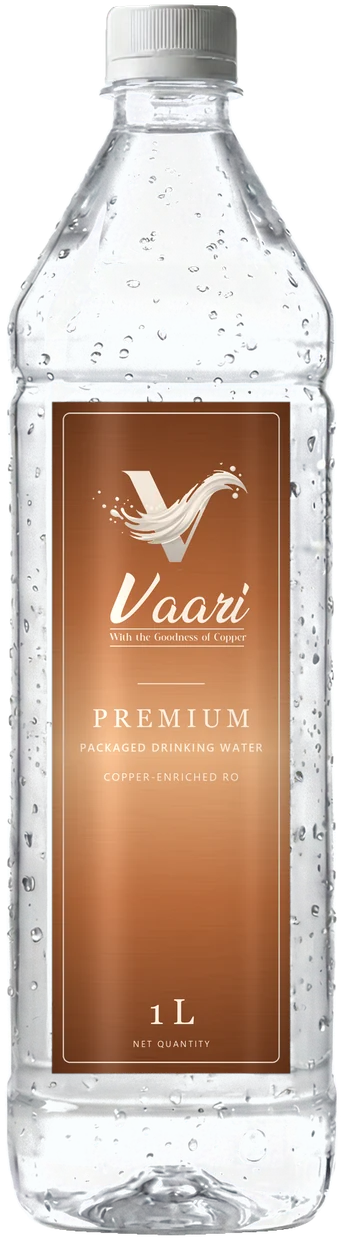
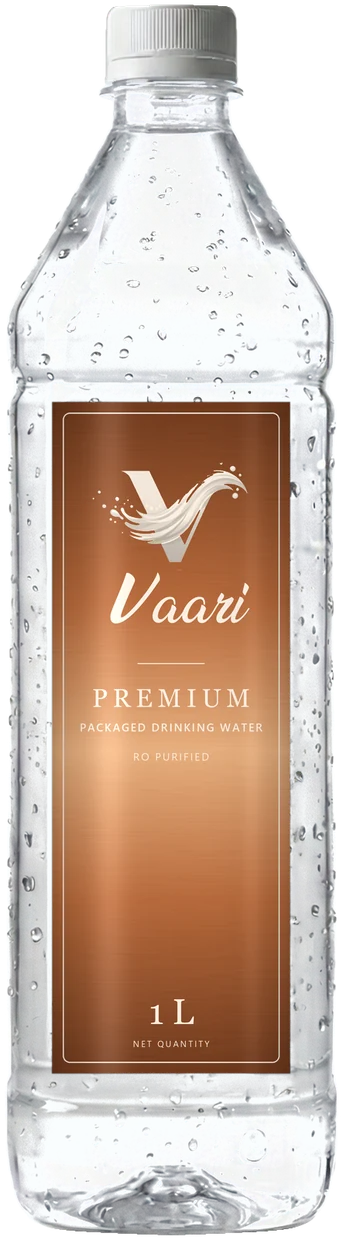
Remove copper enrichment claims and update service area
- Replace copper wording across the site with RO purified messaging
- Remove the copper enrichment step and related health claims
- Regenerate bottle labels and use a logo without the copper tagline
- Update service area to Haryana
- Stop requesting the 20L photo before it exists

Changed region(s): [[0.2332, 0.4903, 0.758, 0.6435]]

diff --git a/components/hero-section.tsx b/components/hero-section.tsx
@@ -193,7 +193,7 @@ export function HeroSection() {
               transition={{ duration: 0.9, delay: INTRO_DELAY + 0.55 }}
               className="text-[15px] leading-relaxed text-white/80"
             >
-              Experience the purity of copper-based RO purified water. Every drop is a commitment to
+              Experience the purity of RO purified water. Every drop is a commitment to
               your health.
             </motion.p>
           </motion.div>
@@ -237,17 +237,17 @@ export function HeroSection() {
             style={{ opacity: callouts, x: calloutShift }}
             className="absolute right-[7vw] top-[50vh] z-10 hidden max-w-[24vw] text-right lg:block"
           >
-            <p className="font-display text-4xl font-light italic text-copper-light xl:text-5xl">Copper Enriched</p>
+            <p className="font-display text-4xl font-light italic text-copper-light xl:text-5xl">FSSAI Certified</p>
             <div className="my-4 ml-auto h-px w-[85%] bg-gradient-to-l from-copper-light/80 to-transparent" />
             <p className="text-[15px] leading-relaxed text-white/75">
-              With the goodness of copper, for water that does more than quench your thirst.
+              Compliant with food safety and quality standards, so you can trust every bottle.
             </p>
           </motion.div>
           <motion.p
             style={{ opacity: callouts }}
             className="absolute inset-x-6 top-[11vh] z-10 text-center font-display text-2xl font-light italic text-white lg:hidden"
           >
-            RO purified. <span className="text-copper-light">Copper enriched.</span>
+            RO purified. <span className="text-copper-light">FSSAI certified.</span>
           </motion.p>
         </div>
       </section>
@@ -258,7 +258,7 @@ export function HeroSection() {
         <div className="mx-auto grid max-w-7xl gap-12 px-5 py-20 sm:px-8 lg:min-h-screen lg:grid-cols-2 lg:items-center lg:py-28">
           <div>
             <Reveal>
-              <p className="eyebrow mb-6 text-copper-dark">With the goodness of copper</p>
+              <p className="eyebrow mb-6 text-copper-dark">Pure. Safe. Refreshing.</p>
             </Reveal>
             <RiseText
               text="Water you can trust, in every single drop."
@@ -266,14 +266,14 @@ export function HeroSection() {
             />
             <Reveal delay={0.15}>
               <p className="mt-7 max-w-lg text-lg leading-relaxed text-ink/70">
-                Our water is sourced from a state-of-the-art Copper-Based RO Purifier, combining
-                advanced Reverse Osmosis filtration technology with the natural benefits of copper.
+                Our water is purified with a state-of-the-art RO system, using
+                advanced Reverse Osmosis filtration technology for crystal-clear, safe drinking water.
               </p>
             </Reveal>
 
             <img
               src="/bottles/vaari-premium-1l.webp"
-              alt="VAARI Premium Crystal 1 litre bottle with a copper label"
+              alt="VAARI Premium Crystal 1 litre bottle"
               loading="lazy"
               className="mx-auto mt-10 h-[56vh] w-auto drop-shadow-[0_26px_26px_rgba(7,38,58,0.25)] lg:hidden"
             />

diff --git a/components/process-section.tsx b/components/process-section.tsx
@@ -10,16 +10,12 @@ const STEPS = [
     text: 'Crystal-clear water free from contaminants, impurities, and harmful substances through our multi-stage RO process.',
   },
   {
-    title: 'Copper Enrichment',
-    text: "Water enriched with copper's natural health-boosting properties, including antimicrobial benefits and improved immunity.",
-  },
-  {
     title: 'Quality Certified',
     text: 'Certified by the Food Safety and Standards Authority of India (FSSAI), ensuring compliance with the highest food safety and quality standards.',
   },
   {
     title: 'Sealed & Delivered',
-    text: 'Bottled in eco-friendly packaging and delivered across Delhi NCR on daily and weekly schedules.',
+    text: 'Bottled in eco-friendly packaging and delivered across Haryana on daily and weekly schedules.',
   },
 ];
 
@@ -34,7 +30,7 @@ export function ProcessSection() {
   });
 
   return (
-    <section ref={ref} className="relative h-[320vh] bg-ink text-white">
+    <section ref={ref} className="relative h-[260vh] bg-ink text-white">
       <div className="noise screen-h sticky top-0 overflow-hidden">
         <div className="mx-auto grid h-full max-w-7xl grid-cols-[92px_1fr] items-center pt-14 gap-6 px-5 sm:grid-cols-[180px_1fr] sm:gap-12 sm:px-8 lg:grid-cols-[300px_1fr] lg:gap-24">
           {/* A glass column that fills as the reader scrolls. */}
@@ -45,17 +41,12 @@ export function ProcessSection() {
               </svg>
             </motion.div>
             <div className="absolute inset-y-6 left-[18%] w-2 rounded-full bg-white/30 blur-[2px]" />
-            <motion.div
-              animate={{ opacity: active >= 1 ? 1 : 0, scale: active >= 1 ? 1 : 0.6 }}
-              transition={{ duration: 0.6 }}
-              className="absolute left-1/2 top-1/2 h-1/3 w-1/2 -translate-x-1/2 -translate-y-1/2 rounded-full bg-copper-light/40 blur-2xl"
-            />
           </div>
 
           <div>
             <p className="eyebrow mb-4 text-aqua">Our Water Source</p>
             <RiseText
-              text="Copper-Based RO Purification"
+              text="Advanced RO Purification"
               className="mb-8 max-w-2xl text-3xl font-light leading-[1.08] sm:text-5xl lg:mb-12 lg:text-6xl"
             />
             <ol className="space-y-1">

diff --git a/components/products-section.tsx b/components/products-section.tsx
@@ -2,7 +2,7 @@
 
 import { AnimatePresence, motion, useMotionValueEvent, useScroll } from 'framer-motion';
 import { ArrowRight, Award, Droplets, ShieldCheck, Sparkles } from 'lucide-react';
-import { useEffect, useRef, useState } from 'react';
+import { useRef, useState } from 'react';
 import { scrollToTarget, RiseText } from '@/components/site/motion';
 import { PRODUCTS, TWENTY_LITRE_IMAGE, type Product } from '@/lib/site-data';
 
@@ -10,7 +10,7 @@ const EASE = [0.22, 1, 0.36, 1] as const;
 
 const QUALITIES = [
   { icon: ShieldCheck, label: 'RO Purified' },
-  { icon: Award, label: 'Copper Enriched' },
+  { icon: Award, label: 'FSSAI Certified' },
   { icon: Droplets, label: '100% Pure' },
 ];
 
@@ -45,7 +45,7 @@ function TwentyLitreIllustration() {
       ))}
       <path d="M58 130 C46 170 46 440 58 510" fill="none" stroke="#fff" strokeOpacity="0.55" strokeWidth="9" strokeLinecap="round" />
       <rect x="50" y="218" width="200" height="214" rx="6" fill="#fff" />
-      <image href="/logo_vaari.png" x="88" y="230" width="124" height="146" />
+      <image href="/brand/vaari-logo-stacked.webp" x="88" y="236" width="124" height="130" />
       <text x="150" y="412" textAnchor="middle" fontFamily="Georgia, serif" fontSize="28" fill="#0a3350">
         20 L
       </text>
@@ -54,18 +54,9 @@ function TwentyLitreIllustration() {
 }
 
 function BottleImage({ product }: { product: Product }) {
-  const isTwenty = product.image === TWENTY_LITRE_IMAGE;
-  const [hasPhoto, setHasPhoto] = useState(false);
-
-  // Checked after mount so a missing photo falls back to the illustration without a broken image.
-  useEffect(() => {
-    if (!isTwenty) return;
-    const probe = new window.Image();
-    probe.onload = () => setHasPhoto(true);
-    probe.src = TWENTY_LITRE_IMAGE;
-  }, [isTwenty]);
-
-  if (isTwenty && !hasPhoto) return <TwentyLitreIllustration />;
+  if (product.image === TWENTY_LITRE_IMAGE && process.env.NEXT_PUBLIC_HAS_20L_PHOTO !== 'true') {
+    return <TwentyLitreIllustration />;
+  }
   return <img src={product.image} alt={`VAARI ${product.name}`} loading="lazy" className="h-full w-auto" />;
 }
 

diff --git a/components/delivery-section.tsx b/components/delivery-section.tsx
@@ -7,7 +7,7 @@ import { Reveal, RiseText, WaveEdge } from '@/components/site/motion';
 import { CITIES, CONTACT } from '@/lib/site-data';
 
 const FACTS = [
-  { icon: MapPin, title: 'Service Area', lead: 'Delhi NCR', text: 'Including Delhi, Noida, Gurgaon, Ghaziabad, and Faridabad' },
+  { icon: MapPin, title: 'Service Area', lead: 'Haryana', text: 'Including  Faridabad, Gurgaon, Hodal and Palwal' },
   { icon: Clock, title: 'Working Hours', lead: CONTACT.hours, text: 'Monday to Saturday. Sunday by appointment only' },
   { icon: Truck, title: 'Delivery Schedule', lead: 'Daily & Weekly', text: 'Within 48hrs delivery available for bulk orders' },
 ];
@@ -51,7 +51,7 @@ export function DeliverySection() {
           <p className="eyebrow mb-6 text-aqua">Distribution & Delivery</p>
         </Reveal>
         <RiseText
-          text="Fast, reliable delivery across Delhi NCR."
+          text="Fast, reliable delivery across Haryana."
           className="max-w-4xl text-4xl font-light leading-[1.05] sm:text-6xl"
         />
 

diff --git a/components/footer.tsx b/components/footer.tsx
@@ -28,7 +28,7 @@ export function Footer() {
           <div>
             <img src="/brand/vaari-logo-light.webp" alt="VAARI" loading="lazy" className="h-14 w-auto" />
             <p className="mt-5 max-w-xs text-sm leading-relaxed text-white/65">
-              Pure, safe, and refreshing drinking water delivered with excellence across Delhi NCR.
+              Pure, safe, and refreshing drinking water delivered with excellence across Haryana.
             </p>
             <div className="mt-6 flex gap-2">
               {SOCIAL.map((social) => (
@@ -68,7 +68,7 @@ export function Footer() {
             </li>
             <li className="flex gap-3">
               <MapPin className="mt-0.5 h-4 w-4 shrink-0 text-aqua" />
-              <span className="text-white/65">Delhi NCR, India</span>
+              <span className="text-white/65">Haryana, India</span>
             </li>
           </FooterColumn>
 

diff --git a/app/layout.tsx b/app/layout.tsx
@@ -1,3 +1,4 @@
+// @ts-expect-error Next.js resolves global CSS imports during bundling.
 import './globals.css';
 import type { Metadata } from 'next';
 import { Fraunces, Manrope } from 'next/font/google';
@@ -13,7 +14,7 @@ const display = Fraunces({
 
 export const metadata: Metadata = {
   title: 'VAARI - Premium Bottled Water | Stay Pure. Stay Hydrated.',
-  description: 'VAARI by SATPREM SOLUTIONS delivers pure, copper-enriched RO water across Delhi NCR. FSSAI certified, eco-friendly packaging, and white-label solutions for businesses.',
+  description: 'VAARI by SATPREM SOLUTIONS delivers pure, RO purified water across Haryana. FSSAI certified, eco-friendly packaging, and white-label solutions for businesses.',
 };
 
 export default function RootLayout({

diff --git a/components/white-label-section.tsx b/components/white-label-section.tsx
@@ -11,7 +11,7 @@ const STEPS = [
   { icon: Upload, title: 'Share your brand', text: 'Send us your logo and the details you want on the label.' },
   { icon: PenTool, title: 'We design the label', text: 'Our team prepares a custom label for your bottles.' },
   { icon: FileCheck2, title: 'You approve', text: 'Production starts once you are happy with the design.' },
-  { icon: Truck, title: 'We bottle and deliver', text: 'Your branded water arrives across Delhi NCR.' },
+  { icon: Truck, title: 'We bottle and deliver', text: 'Your branded water arrives across Haryana.' },
 ];
 
 // Blank panel on the vaari-custom-1l render, as a percentage of the image.

diff --git a/lib/site-data.ts b/lib/site-data.ts
@@ -18,7 +18,7 @@ export const NAV_LINKS = [
   { name: 'Contact', href: '#contact' },
 ];
 
-export const CITIES = ['Delhi', 'Noida', 'Gurgaon', 'Ghaziabad', 'Faridabad'];
+export const CITIES = ['Faridabad', 'Gurgaon', 'Hodal', 'Palwal',];
 
 export type ProductTheme = 'light' | 'copper' | 'deep';
 
@@ -41,7 +41,7 @@ export interface Product {
   priceNote?: string;
 }
 
-/** Drop the 20 litre photo at this path and the site swaps it in by itself. */
+/** Save the 20 litre photo at this path. It appears on the next build or dev server restart. */
 export const TWENTY_LITRE_IMAGE = '/bottles/vaari-20l.png';
 
 export const PRODUCTS: Product[] = [

diff --git a/app/page.tsx b/app/page.tsx
@@ -14,7 +14,7 @@ import { TestimonialsSection } from '@/components/testimonials-section';
 import { WhatsAppButton } from '@/components/whatsapp-button';
 import { WhiteLabelSection } from '@/components/white-label-section';
 
-const TICKER = ['Stay Pure', 'Stay Hydrated', 'With the Goodness of Copper', 'FSSAI Certified', 'Delivered Across Delhi NCR', 'White-Label Solutions'];
+const TICKER = ['Stay Pure', 'Stay Hydrated', 'RO Purified', 'FSSAI Certified', 'Delivered Across Haryana', 'White-Label Solutions'];
 
 function Ticker() {
   return (

diff --git a/components/contact-section.tsx b/components/contact-section.tsx
@@ -91,7 +91,7 @@ export function ContactSection() {
               <span className="font-bold text-ink">{CONTACT.hours}, {CONTACT.days}</span>
             </Info>
             <Info icon={<MapPin />} title="Service Area">
-              <span className="font-bold text-ink">Delhi, Noida, Gurgaon, Ghaziabad, Faridabad</span>
+              <span className="font-bold text-ink"> Faridabad, Gurgaon, Hodal, Palwal</span>
             </Info>
           </div>
         </div>

diff --git a/next.config.js b/next.config.js
@@ -1,6 +1,16 @@
+const fs = require('fs');
+const path = require('path');
+
 /** @type {import('next').NextConfig} */
 const nextConfig = {
   reactStrictMode: true,
+
+  env: {
+    // The site shows the 20 litre photo once this file exists, and an illustration until then.
+    NEXT_PUBLIC_HAS_20L_PHOTO: String(
+      fs.existsSync(path.join(__dirname, 'public/bottles/vaari-20l.png')),
+    ),
+  },
 
   typescript: {
     ignoreBuildErrors: true,

diff --git a/components/testimonials-section.tsx b/components/testimonials-section.tsx
@@ -12,7 +12,7 @@ export function TestimonialsSection() {
           <p className="eyebrow mb-6 text-copper-dark">What Our Customers Say</p>
         </Reveal>
         <RiseText
-          text="Trusted by individuals and businesses across Delhi NCR."
+          text="Trusted by individuals and businesses across Haryana."
           className="max-w-4xl text-4xl font-light leading-[1.06] text-ink sm:text-6xl"
         />
 
